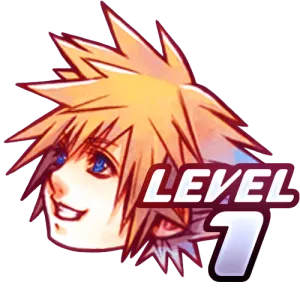
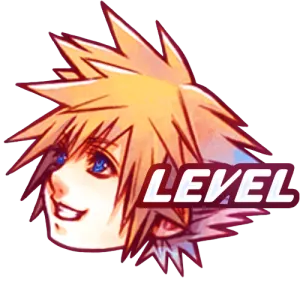
Show 3 on dalmations and 1 on sora, don't show 1 beneath numbers on sora

Changed region(s): [[0.66, 0.69, 0.9, 0.96]]

diff --git a/frontend/src/store/tracker_important/state.ts b/frontend/src/store/tracker_important/state.ts
@@ -6,12 +6,13 @@ export type Location = Item & {
   totalChecks: number;
   other?: string | string[];
   otherLevel: number;
-}
+};
 
 export type Check = Item & { levelsImportant: boolean };
 
 const item = (options: Partial<Item>): Item => ({
   total: 1,
+  showFirst: false,
   level: 0,
   opaque: options.level ? true : false,
   secondaryTotal: options.secondary ? 1 : 0,
@@ -285,7 +286,7 @@ export type Hint = {
   checks: number;
   found: boolean;
   incorrectCounter: number;
-}
+};
 
 export type Hints = Array<Hint>;
 
@@ -296,7 +297,7 @@ export type HintSetting = {
   value: number;
   enabled: boolean;
   show: boolean;
-}
+};
 
 const hintSetting = (options: { items: string[] } & Partial<HintSetting>): HintSetting => ({
   disable: false,

diff --git a/frontend/src/store/tracker_1fm/state.ts b/frontend/src/store/tracker_1fm/state.ts
@@ -13,6 +13,7 @@ export type Item = BaseItem & {
 
 const item = (options: Partial<Item>): Item => ({
   total: 1,
+  showFirst: false,
   level: 0,
   opaque: options.level ? true : false,
   secondaryTotal: options.secondary ? 1 : 0,
@@ -110,6 +111,7 @@ export const items: { [key: string]: Item } = {
   "other/sora's_level": item({
     total: 27,
     level: 1,
+    showFirst: true,
     numbers: [
       ...[...Array(15).keys()].map(i => i + 1),
       ...[...Array(6).keys()].map(i => 20 + i * 5),
@@ -149,6 +151,7 @@ export const items: { [key: string]: Item } = {
 
   "other/dalmatians": item({
     total: 33,
+    showFirst: true,
     numbers: [...Array(33).keys()].map(i => (i + 1) * 3),
     category: "dalmatians",
   }),

diff --git a/frontend/src/store/tracker/state.ts b/frontend/src/store/tracker/state.ts
@@ -12,6 +12,7 @@ export type Item = BaseItem & {
 
 const item = (options: Partial<Item>): Item => ({
   total: 1,
+  showFirst: false,
   level: 0,
   opaque: options.level ? true : false,
   secondaryTotal: options.secondary ? 1 : 0,
@@ -195,6 +196,7 @@ export const items: { [key: string]: Item } = {
   // Level
   "other/sora's_level": item({
     total: 27,
+    showFirst: true,
     level: 1,
     numbers: [
       ...[...Array(15).keys()].map(i => i + 1),

diff --git a/frontend/src/components/BaseCell.vue b/frontend/src/components/BaseCell.vue
@@ -13,7 +13,7 @@
     template(v-if="!cell.disabled")
       transition(name="fade-up")
         img.number(
-          v-if="cell.total > 1 && cell.level > 1"
+          v-if="cell.total > 1 && cell.level > 1 || (cell.showFirst && cell.level)"
           :src="`/img/progression/numbers/${number}.webp`"
         )
       transition(name="fade-up")

diff --git a/frontend/src/views/Changelog.vue b/frontend/src/views/Changelog.vue
@@ -14,6 +14,7 @@
         h3 Changed
         ul
           li No longer shows the "Important Checks Mode" switch and "Upload Hints" button in KH1 mode.
+          li No longer show the 1 on Sora's levels beneath the actual level.
 
     section
       h2 Friday 27 April 2021

diff --git a/frontend/src/store/types.ts b/frontend/src/store/types.ts
@@ -3,6 +3,7 @@ import type { IconStyle } from "./settings";
 export type Item = {
   total: number;
   level: number;
+  showFirst: boolean;
   numbers?: number[];
   opaque: boolean;
 
